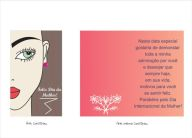
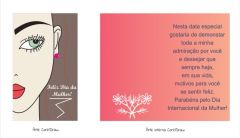
Cartões comemorativos cadastrados

diff --git a/Sheila/css/estilo.css b/Sheila/css/estilo.css
@@ -72,8 +72,8 @@ header nav#menu ul li a#contato { margin-left: 7px; font-size: 25px; margin-top:
 header nav#menu ul li a#anuncie { margin-left: 7px; font-size: 25px; margin-top: 50px;}
 
 section.wrapper { margin-top: 40px; margin-bottom: 20px; }         
-section.wrapper div.texto article { float: left; width: 470px;  text-align: justify; margin-left: 25px;}
-section.wrapper div.texto article h3 { font-size: 20px; font-weight: bold;  }
+section.wrapper div.texto article { float: left; width: 470px;  text-align: justify; margin-left: 25px;  font-family: 'Nunito', sans-serif; font-weight: 300; }
+section.wrapper div.texto article h3 { font-size: 20px; font-weight: bold;  font-family: 'Nunito', sans-serif; font-weight: 700; }
 
 /*      Formulário Contato*/
 
@@ -100,7 +100,8 @@ ul.thumbs {
     padding: 0;
     margin: 0;
     overflow: hidden;
-    font-family: 'Josefin Sans', sans-serif;
+    //font-family: 'Josefin Sans', sans-serif;
+    font-family: 'Nunito', sans-serif;
 }
 
 ul.thumbs li {
@@ -110,7 +111,8 @@ ul.thumbs li {
     padding: 0;
     float: left;
     position: relative;
-    font-family: 'Josefin Sans', sans-serif;
+    //font-family: 'Josefin Sans', sans-serif;
+    font-family: 'Nunito', sans-serif;
 }
 
 ul.thumbs li a.thumbnail {
@@ -126,7 +128,8 @@ ul.thumbs li a.thumbnail {
     z-index: 9;
     width: 100%;
     height: 100%;
-    font-family: 'Josefin Sans', sans-serif;
+    //font-family: 'Josefin Sans', sans-serif;
+    font-family: 'Nunito', sans-serif;
 }
 
 ul.thumbs li a.thumbnail h4 {
@@ -139,7 +142,8 @@ ul.thumbs li a.thumbnail h4 {
     color: #6b6b6b;
     font-size: 14px;
     margin: 0;
-    font-family: 'Josefin Sans', sans-serif;
+    //font-family: 'Josefin Sans', sans-serif;
+    font-family: 'Nunito', sans-serif;
 }
 
 ul.thumbs li a.thumbnail .description {
@@ -162,7 +166,8 @@ ul.thumbs li a.thumbnail .description {
     line-height: 10px;
     box-sizing: inherit;
     text-align: center;
-    font-family: 'Josefin Sans', sans-serif;
+    //font-family: 'Josefin Sans', sans-serif;
+    font-family: 'Nunito', sans-serif;
 }
 
 ul.thumbs li a.thumbnail .active-arrow {
@@ -177,7 +182,8 @@ ul.thumbs li a.thumbnail .active-arrow {
     left: 0;
     right: 0;
     margin: 0 auto;
-    font-family: 'Josefin Sans', sans-serif;
+    //font-family: 'Josefin Sans', sans-serif;
+    font-family: 'Nunito', sans-serif;
 }
 
 @media (max-width: 970px)  {
@@ -192,14 +198,16 @@ ul.thumbs li a.thumbnail .active-arrow {
 @media (max-width: 1200px) and (min-width: 970px) {
     ul.thumbs li {
         width: 33.3333% !important;
-        font-family: 'Josefin Sans', sans-serif;
+        //font-family: 'Josefin Sans', sans-serif;
+        font-family: 'Nunito', sans-serif;
     }
 }
 
 ul.thumbs li a.thumbnail:hover .description {
     height: 50px;
     opacity: 1;
-    font-family: 'Josefin Sans', sans-serif;
+    //font-family: 'Josefin Sans', sans-serif;
+    font-family: 'Nunito', sans-serif;
 }
 
 ul.thumbs li.content {
@@ -212,12 +220,14 @@ ul.thumbs li.content {
     height: 100%;
     position: relative;
     padding: 45px 0 45px;
-    font-family: 'Josefin Sans', sans-serif;
+    //font-family: 'Josefin Sans', sans-serif;
+    font-family: 'Nunito', sans-serif;
 }
 
 ul.thumbs li.content h3 {
     display: inline-block;
-    font-family: 'Josefin Sans', sans-serif;
+    //font-family: 'Josefin Sans', sans-serif;
+    font-family: 'Nunito', sans-serif;
 }
 
 ul.thumbs li.content .close {
@@ -243,11 +253,13 @@ ul.thumbs li.content .media {
     width: 50%;
     min-height: 200px;
     //font-family: 'Josefin Sans', sans-serif;
+    font-family: 'Nunito', sans-serif;
 }
 
 ul.thumbs li.content .media img {
     max-width: 100%;    
     //font-family: 'Josefin Sans', sans-serif;    
+    font-family: 'Nunito', sans-serif;
 }
 
 @media (max-width: 1080px) {
@@ -303,8 +315,8 @@ ul.thumbs li.content .galeria {
 
 .galeria a.fancybox-effects-a img, .galeria a.fancybox-effects-b img, .galeria a.fancybox-effects-c img, .galeria a.fancybox-effects-d img, .galeria a.fancybox-buttons img, .galeria a.fancybox-thumbs img {    
     border: 1px solid #000;      
-    margin-right: 5px;
-    margin-bottom: 8px;
+    //margin-right: 5px;
+    margin-bottom: 2px;
     
 }
 

diff --git a/Sheila/js/config.js b/Sheila/js/config.js
@@ -15,8 +15,9 @@
                 
 		//Cufon('header nav#menu ul li a', { fontFamily: 'Daisy Script'});   
                 Cufon('footer address, footer p', { fontFamily: 'Open Sans'});   
-                Cufon('div.texto', { fontFamily: 'Josefin Sans'});   
-                Cufon('div.texto h3', { fontFamily: 'Josefin Sans Semi Bold'});   
+                //Cufon('div.texto', { fontFamily: 'Josefin Sans'});   
+                //Cufon('div.texto h3', { fontFamily: 'Josefin Sans Semi Bold'});   
+                 
                 Cufon('header nav#menu ul li a', { hover: {color: '#E9556A'},fontFamily: 'Indie Flower'}); 
             
             

diff --git a/Sheila/portfolio.php b/Sheila/portfolio.php
@@ -83,66 +83,66 @@ and open the template in the editor.
                         <!--<p>Class aptent taciti sociosqu ad litora torquent per conubia nostra, per inceptos himenaeos. Suspendisse potenti. Integer a posuere tortor. Praesent malesuada mauris massa, non blandit neque tempus nec. Quisque fermentum nunc non hendrerit tempus.</p>-->
                         <p class="galeria">
                             <a class="fancybox-effects-c" href="imagens/portfolio/original/cartoes-comemorativos/amostra.jpg" data-fancybox-group="gallery" title="Amostra"><img src="imagens/portfolio/thumbnail/cartoes-comemorativos/amostra.jpg" alt="Amostra" /></a>
-                            <a class="fancybox-effects-c" href="imagens/portfolio/original/cartoes-comemorativos/" data-fancybox-group="gallery" title=""><img src="imagens/portfolio/thumbnail/cartoes-comemorativos/" alt="" /></a>
-                            <a class="fancybox-effects-c" href="imagens/portfolio/original/cartoes-comemorativos/" data-fancybox-group="gallery" title=""><img src="imagens/portfolio/thumbnail/cartoes-comemorativos/" alt="" /></a>
-                            <a class="fancybox-effects-c" href="imagens/portfolio/original/cartoes-comemorativos/" data-fancybox-group="gallery" title=""><img src="imagens/portfolio/thumbnail/cartoes-comemorativos/" alt="" /></a>
-                            <a class="fancybox-effects-c" href="imagens/portfolio/original/cartoes-comemorativos/" data-fancybox-group="gallery" title=""><img src="imagens/portfolio/thumbnail/cartoes-comemorativos/" alt="" /></a>
-                            <a class="fancybox-effects-c" href="imagens/portfolio/original/cartoes-comemorativos/" data-fancybox-group="gallery" title=""><img src="imagens/portfolio/thumbnail/cartoes-comemorativos/" alt="" /></a>
-                            <a class="fancybox-effects-c" href="imagens/portfolio/original/cartoes-comemorativos/" data-fancybox-group="gallery" title=""><img src="imagens/portfolio/thumbnail/cartoes-comemorativos/" alt="" /></a>
-                            <a class="fancybox-effects-c" href="imagens/portfolio/original/cartoes-comemorativos/" data-fancybox-group="gallery" title=""><img src="imagens/portfolio/thumbnail/cartoes-comemorativos/" alt="" /></a>
-                            <a class="fancybox-effects-c" href="imagens/portfolio/original/cartoes-comemorativos/" data-fancybox-group="gallery" title=""><img src="imagens/portfolio/thumbnail/cartoes-comemorativos/" alt="" /></a>
-                            <a class="fancybox-effects-c" href="imagens/portfolio/original/cartoes-comemorativos/" data-fancybox-group="gallery" title=""><img src="imagens/portfolio/thumbnail/cartoes-comemorativos/" alt="" /></a>
-                            <a class="fancybox-effects-c" href="imagens/portfolio/original/cartoes-comemorativos/" data-fancybox-group="gallery" title=""><img src="imagens/portfolio/thumbnail/cartoes-comemorativos/" alt="" /></a>
-                            <a class="fancybox-effects-c" href="imagens/portfolio/original/cartoes-comemorativos/" data-fancybox-group="gallery" title=""><img src="imagens/portfolio/thumbnail/cartoes-comemorativos/" alt="" /></a>
-                            <a class="fancybox-effects-c" href="imagens/portfolio/original/cartoes-comemorativos/" data-fancybox-group="gallery" title=""><img src="imagens/portfolio/thumbnail/cartoes-comemorativos/" alt="" /></a>
-                            <a class="fancybox-effects-c" href="imagens/portfolio/original/cartoes-comemorativos/" data-fancybox-group="gallery" title=""><img src="imagens/portfolio/thumbnail/cartoes-comemorativos/" alt="" /></a>
-                            <a class="fancybox-effects-c" href="imagens/portfolio/original/cartoes-comemorativos/" data-fancybox-group="gallery" title=""><img src="imagens/portfolio/thumbnail/cartoes-comemorativos/" alt="" /></a>
-                            <a class="fancybox-effects-c" href="imagens/portfolio/original/cartoes-comemorativos/" data-fancybox-group="gallery" title=""><img src="imagens/portfolio/thumbnail/cartoes-comemorativos/" alt="" /></a>
-                            <a class="fancybox-effects-c" href="imagens/portfolio/original/cartoes-comemorativos/" data-fancybox-group="gallery" title=""><img src="imagens/portfolio/thumbnail/cartoes-comemorativos/" alt="" /></a>
-                            <a class="fancybox-effects-c" href="imagens/portfolio/original/cartoes-comemorativos/" data-fancybox-group="gallery" title=""><img src="imagens/portfolio/thumbnail/cartoes-comemorativos/" alt="" /></a>
-                            <a class="fancybox-effects-c" href="imagens/portfolio/original/cartoes-comemorativos/" data-fancybox-group="gallery" title=""><img src="imagens/portfolio/thumbnail/cartoes-comemorativos/" alt="" /></a>
-                            <a class="fancybox-effects-c" href="imagens/portfolio/original/cartoes-comemorativos/" data-fancybox-group="gallery" title=""><img src="imagens/portfolio/thumbnail/cartoes-comemorativos/" alt="" /></a>
-                            <a class="fancybox-effects-c" href="imagens/portfolio/original/cartoes-comemorativos/" data-fancybox-group="gallery" title=""><img src="imagens/portfolio/thumbnail/cartoes-comemorativos/" alt="" /></a>
-                            <a class="fancybox-effects-c" href="imagens/portfolio/original/cartoes-comemorativos/" data-fancybox-group="gallery" title=""><img src="imagens/portfolio/thumbnail/cartoes-comemorativos/" alt="" /></a>
-                            <a class="fancybox-effects-c" href="imagens/portfolio/original/cartoes-comemorativos/" data-fancybox-group="gallery" title=""><img src="imagens/portfolio/thumbnail/cartoes-comemorativos/" alt="" /></a>
-                            <a class="fancybox-effects-c" href="imagens/portfolio/original/cartoes-comemorativos/" data-fancybox-group="gallery" title=""><img src="imagens/portfolio/thumbnail/cartoes-comemorativos/" alt="" /></a>
-                            <a class="fancybox-effects-c" href="imagens/portfolio/original/cartoes-comemorativos/" data-fancybox-group="gallery" title=""><img src="imagens/portfolio/thumbnail/cartoes-comemorativos/" alt="" /></a>
-                            <a class="fancybox-effects-c" href="imagens/portfolio/original/cartoes-comemorativos/" data-fancybox-group="gallery" title=""><img src="imagens/portfolio/thumbnail/cartoes-comemorativos/" alt="" /></a>
-                            <a class="fancybox-effects-c" href="imagens/portfolio/original/cartoes-comemorativos/" data-fancybox-group="gallery" title=""><img src="imagens/portfolio/thumbnail/cartoes-comemorativos/" alt="" /></a>
-                            <a class="fancybox-effects-c" href="imagens/portfolio/original/cartoes-comemorativos/" data-fancybox-group="gallery" title=""><img src="imagens/portfolio/thumbnail/cartoes-comemorativos/" alt="" /></a>
-                            <a class="fancybox-effects-c" href="imagens/portfolio/original/cartoes-comemorativos/" data-fancybox-group="gallery" title=""><img src="imagens/portfolio/thumbnail/cartoes-comemorativos/" alt="" /></a>
-                            <a class="fancybox-effects-c" href="imagens/portfolio/original/cartoes-comemorativos/" data-fancybox-group="gallery" title=""><img src="imagens/portfolio/thumbnail/cartoes-comemorativos/" alt="" /></a>
-                            <a class="fancybox-effects-c" href="imagens/portfolio/original/cartoes-comemorativos/" data-fancybox-group="gallery" title=""><img src="imagens/portfolio/thumbnail/cartoes-comemorativos/" alt="" /></a>
-                            <a class="fancybox-effects-c" href="imagens/portfolio/original/cartoes-comemorativos/" data-fancybox-group="gallery" title=""><img src="imagens/portfolio/thumbnail/cartoes-comemorativos/" alt="" /></a>
-                            <a class="fancybox-effects-c" href="imagens/portfolio/original/cartoes-comemorativos/" data-fancybox-group="gallery" title=""><img src="imagens/portfolio/thumbnail/cartoes-comemorativos/" alt="" /></a>
-                            <a class="fancybox-effects-c" href="imagens/portfolio/original/cartoes-comemorativos/" data-fancybox-group="gallery" title=""><img src="imagens/portfolio/thumbnail/cartoes-comemorativos/" alt="" /></a>
-                            <a class="fancybox-effects-c" href="imagens/portfolio/original/cartoes-comemorativos/" data-fancybox-group="gallery" title=""><img src="imagens/portfolio/thumbnail/cartoes-comemorativos/" alt="" /></a>
-                            <a class="fancybox-effects-c" href="imagens/portfolio/original/cartoes-comemorativos/" data-fancybox-group="gallery" title=""><img src="imagens/portfolio/thumbnail/cartoes-comemorativos/" alt="" /></a>
-                            <a class="fancybox-effects-c" href="imagens/portfolio/original/cartoes-comemorativos/" data-fancybox-group="gallery" title=""><img src="imagens/portfolio/thumbnail/cartoes-comemorativos/" alt="" /></a>
-                            <a class="fancybox-effects-c" href="imagens/portfolio/original/cartoes-comemorativos/" data-fancybox-group="gallery" title=""><img src="imagens/portfolio/thumbnail/cartoes-comemorativos/" alt="" /></a>
-                            <a class="fancybox-effects-c" href="imagens/portfolio/original/cartoes-comemorativos/" data-fancybox-group="gallery" title=""><img src="imagens/portfolio/thumbnail/cartoes-comemorativos/" alt="" /></a>
-                            <a class="fancybox-effects-c" href="imagens/portfolio/original/cartoes-comemorativos/" data-fancybox-group="gallery" title=""><img src="imagens/portfolio/thumbnail/cartoes-comemorativos/" alt="" /></a>
-                            <a class="fancybox-effects-c" href="imagens/portfolio/original/cartoes-comemorativos/" data-fancybox-group="gallery" title=""><img src="imagens/portfolio/thumbnail/cartoes-comemorativos/" alt="" /></a>
-                            <a class="fancybox-effects-c" href="imagens/portfolio/original/cartoes-comemorativos/" data-fancybox-group="gallery" title=""><img src="imagens/portfolio/thumbnail/cartoes-comemorativos/" alt="" /></a>
-                            <a class="fancybox-effects-c" href="imagens/portfolio/original/cartoes-comemorativos/" data-fancybox-group="gallery" title=""><img src="imagens/portfolio/thumbnail/cartoes-comemorativos/" alt="" /></a>
-                            <a class="fancybox-effects-c" href="imagens/portfolio/original/cartoes-comemorativos/" data-fancybox-group="gallery" title=""><img src="imagens/portfolio/thumbnail/cartoes-comemorativos/" alt="" /></a>
-                            <a class="fancybox-effects-c" href="imagens/portfolio/original/cartoes-comemorativos/" data-fancybox-group="gallery" title=""><img src="imagens/portfolio/thumbnail/cartoes-comemorativos/" alt="" /></a>
-                            <a class="fancybox-effects-c" href="imagens/portfolio/original/cartoes-comemorativos/" data-fancybox-group="gallery" title=""><img src="imagens/portfolio/thumbnail/cartoes-comemorativos/" alt="" /></a>
-                            <a class="fancybox-effects-c" href="imagens/portfolio/original/cartoes-comemorativos/" data-fancybox-group="gallery" title=""><img src="imagens/portfolio/thumbnail/cartoes-comemorativos/" alt="" /></a>
-                            <a class="fancybox-effects-c" href="imagens/portfolio/original/cartoes-comemorativos/" data-fancybox-group="gallery" title=""><img src="imagens/portfolio/thumbnail/cartoes-comemorativos/" alt="" /></a>
-                            <a class="fancybox-effects-c" href="imagens/portfolio/original/cartoes-comemorativos/" data-fancybox-group="gallery" title=""><img src="imagens/portfolio/thumbnail/cartoes-comemorativos/" alt="" /></a>
-                            <a class="fancybox-effects-c" href="imagens/portfolio/original/cartoes-comemorativos/" data-fancybox-group="gallery" title=""><img src="imagens/portfolio/thumbnail/cartoes-comemorativos/" alt="" /></a>
-                            <a class="fancybox-effects-c" href="imagens/portfolio/original/cartoes-comemorativos/" data-fancybox-group="gallery" title=""><img src="imagens/portfolio/thumbnail/cartoes-comemorativos/" alt="" /></a>
-                            <a class="fancybox-effects-c" href="imagens/portfolio/original/cartoes-comemorativos/" data-fancybox-group="gallery" title=""><img src="imagens/portfolio/thumbnail/cartoes-comemorativos/" alt="" /></a>
-                            <a class="fancybox-effects-c" href="imagens/portfolio/original/cartoes-comemorativos/" data-fancybox-group="gallery" title=""><img src="imagens/portfolio/thumbnail/cartoes-comemorativos/" alt="" /></a>
-                            <a class="fancybox-effects-c" href="imagens/portfolio/original/cartoes-comemorativos/" data-fancybox-group="gallery" title=""><img src="imagens/portfolio/thumbnail/cartoes-comemorativos/" alt="" /></a>
-                            <a class="fancybox-effects-c" href="imagens/portfolio/original/cartoes-comemorativos/" data-fancybox-group="gallery" title=""><img src="imagens/portfolio/thumbnail/cartoes-comemorativos/" alt="" /></a>
-                            <a class="fancybox-effects-c" href="imagens/portfolio/original/cartoes-comemorativos/" data-fancybox-group="gallery" title=""><img src="imagens/portfolio/thumbnail/cartoes-comemorativos/" alt="" /></a>
-                            <a class="fancybox-effects-c" href="imagens/portfolio/original/cartoes-comemorativos/" data-fancybox-group="gallery" title=""><img src="imagens/portfolio/thumbnail/cartoes-comemorativos/" alt="" /></a>
-                            <a class="fancybox-effects-c" href="imagens/portfolio/original/cartoes-comemorativos/" data-fancybox-group="gallery" title=""><img src="imagens/portfolio/thumbnail/cartoes-comemorativos/" alt="" /></a>
-                            <a class="fancybox-effects-c" href="imagens/portfolio/original/cartoes-comemorativos/" data-fancybox-group="gallery" title=""><img src="imagens/portfolio/thumbnail/cartoes-comemorativos/" alt="" /></a>
-                            <a class="fancybox-effects-c" href="imagens/portfolio/original/cartoes-comemorativos/" data-fancybox-group="gallery" title=""><img src="imagens/portfolio/thumbnail/cartoes-comemorativos/" alt="" /></a>
-                            <a class="fancybox-effects-c" href="imagens/portfolio/original/cartoes-comemorativos/" data-fancybox-group="gallery" title=""><img src="imagens/portfolio/thumbnail/cartoes-comemorativos/" alt="" /></a>
+                            <a class="fancybox-effects-c" href="imagens/portfolio/original/cartoes-comemorativos/56-amor.jpg" data-fancybox-group="gallery" title="Hotstamp com glíter"><img src="imagens/portfolio/thumbnail/cartoes-comemorativos/56-amor-hotstamp-com-gliter.jpg" alt="Hotstamp com glíter" /></a>
+                            <a class="fancybox-effects-c" href="imagens/portfolio/original/cartoes-comemorativos/53-amor.jpg" data-fancybox-group="gallery" title="Hotstamp com glíter"><img src="imagens/portfolio/thumbnail/cartoes-comemorativos/53-amor-hotstamp-com-gliter.jpg" alt="Hotstamp com glíter" /></a>
+                            <a class="fancybox-effects-c" href="imagens/portfolio/original/cartoes-comemorativos/50-amor.jpg" data-fancybox-group="gallery" title="Hotstamp com glíter"><img src="imagens/portfolio/thumbnail/cartoes-comemorativos/50-amor-hotstamp-com-gliter.jpg" alt="Hotstamp com glíter" /></a>
+                            <a class="fancybox-effects-c" href="imagens/portfolio/original/cartoes-comemorativos/133-amor.jpg" data-fancybox-group="gallery" title="Hotstamp com glíter"><img src="imagens/portfolio/thumbnail/cartoes-comemorativos/133-amor-hotstamp-com-gliter.jpg" alt="Hotstamp com glíter" /></a>
+                            <a class="fancybox-effects-c" href="imagens/portfolio/original/cartoes-comemorativos/19-amizade.jpg" data-fancybox-group="gallery" title="Hotstamp com glíter"><img src="imagens/portfolio/thumbnail/cartoes-comemorativos/19-amizade-hotstamp-com-gliter.jpg" alt="Hotstamp com glíter" /></a>
+                            <a class="fancybox-effects-c" href="imagens/portfolio/original/cartoes-comemorativos/100-amizade.jpg" data-fancybox-group="gallery" title="Hotstamp com glíter"><img src="imagens/portfolio/thumbnail/cartoes-comemorativos/100-amizade-hotstamp-com-gliter.jpg" alt="Hotstamp com glíter" /></a>
+                            <a class="fancybox-effects-c" href="imagens/portfolio/original/cartoes-comemorativos/1-aniversario.jpg" data-fancybox-group="gallery" title="Hotstamp com glíter"><img src="imagens/portfolio/thumbnail/cartoes-comemorativos/1-aniversario-hotstamp-com-gliter.jpg" alt="Hotstamp com glíter" /></a>
+                            <a class="fancybox-effects-c" href="imagens/portfolio/original/cartoes-comemorativos/2-aniversario.jpg" data-fancybox-group="gallery" title="Hotstamp com glíter"><img src="imagens/portfolio/thumbnail/cartoes-comemorativos/2-aniversario-hotstamp-com-gliter.jpg" alt="Hotstamp com glíter" /></a>
+                            <a class="fancybox-effects-c" href="imagens/portfolio/original/cartoes-comemorativos/9-aniversario.jpg" data-fancybox-group="gallery" title="Hotstamp com glíter"><img src="imagens/portfolio/thumbnail/cartoes-comemorativos/9-aniversario-hotstamp-com-gliter.jpg" alt="Hotstamp com glíter" /></a>
+                            <a class="fancybox-effects-c" href="imagens/portfolio/original/cartoes-comemorativos/4-aniversario.jpg" data-fancybox-group="gallery" title="Hotstamp com glíter"><img src="imagens/portfolio/thumbnail/cartoes-comemorativos/4-aniversario-hotstamp-com-gliter.jpg" alt="Hotstamp com glíter" /></a>
+                            <a class="fancybox-effects-c" href="imagens/portfolio/original/cartoes-comemorativos/131-aniversario.jpg" data-fancybox-group="gallery" title="Hotstamp com glíter"><img src="imagens/portfolio/thumbnail/cartoes-comemorativos/131-aniversario-hotstamp-com-gliter.jpg" alt="Hotstamp com glíter" /></a>
+                            <a class="fancybox-effects-c" href="imagens/portfolio/original/cartoes-comemorativos/134-aniversario.jpg" data-fancybox-group="gallery" title="Hotstamp com glíter"><img src="imagens/portfolio/thumbnail/cartoes-comemorativos/134-aniversario-hotstamp-com-gliter.jpg" alt="Hotstamp com glíter" /></a>
+                            <a class="fancybox-effects-c" href="imagens/portfolio/original/cartoes-comemorativos/23-aniversario-de-casamento.jpg" data-fancybox-group="gallery" title="Hotstamp com glíter"><img src="imagens/portfolio/thumbnail/cartoes-comemorativos/23-aniversario-de-casamento-hotstamp-com-gliter.jpg" alt="Hotstamp com glíter" /></a>
+                            <a class="fancybox-effects-c" href="imagens/portfolio/original/cartoes-comemorativos/101-aniversario-de-casamento.jpg" data-fancybox-group="gallery" title="Hotstamp com glíter"><img src="imagens/portfolio/thumbnail/cartoes-comemorativos/101-aniversario-de-casamento-hotstamp-com-gliter.jpg" alt="Hotstamp com glíter" /></a>
+                            <a class="fancybox-effects-c" href="imagens/portfolio/original/cartoes-comemorativos/81-bebe.jpg" data-fancybox-group="gallery" title="Hotstamp com glíter"><img src="imagens/portfolio/thumbnail/cartoes-comemorativos/81-bebe-hotstamp-com-gliter.jpg" alt="Hotstamp com glíter" /></a>
+                            <a class="fancybox-effects-c" href="imagens/portfolio/original/cartoes-comemorativos/83-bebe.jpg" data-fancybox-group="gallery" title="Hotstamp com glíter"><img src="imagens/portfolio/thumbnail/cartoes-comemorativos/83-bebe-hotstamp-com-gliter.jpg" alt="Hotstamp com glíter" /></a>
+                            <a class="fancybox-effects-c" href="imagens/portfolio/original/cartoes-comemorativos/82-bebe.jpg" data-fancybox-group="gallery" title="Hotstamp com glíter"><img src="imagens/portfolio/thumbnail/cartoes-comemorativos/82-bebe-hotstamp-com-gliter.jpg" alt="Hotstamp com glíter" /></a>
+                            <a class="fancybox-effects-c" href="imagens/portfolio/original/cartoes-comemorativos/24-bebe.jpg" data-fancybox-group="gallery" title="Hotstamp com glíter"><img src="imagens/portfolio/thumbnail/cartoes-comemorativos/24-bebe-hotstamp-com-gliter.jpg" alt="Hotstamp com glíter" /></a>
+                            <a class="fancybox-effects-c" href="imagens/portfolio/original/cartoes-comemorativos/25-bebe.jpg" data-fancybox-group="gallery" title="Hotstamp com glíter"><img src="imagens/portfolio/thumbnail/cartoes-comemorativos/25-bebe-hotstamp-com-gliter.jpg" alt="Hotstamp com glíter" /></a>
+                            <a class="fancybox-effects-c" href="imagens/portfolio/original/cartoes-comemorativos/26-bebe.jpg" data-fancybox-group="gallery" title="Hotstamp com glíter"><img src="imagens/portfolio/thumbnail/cartoes-comemorativos/26-bebe-hotstamp-com-gliter.jpg" alt="Hotstamp com glíter" /></a>
+                            <a class="fancybox-effects-c" href="imagens/portfolio/original/cartoes-comemorativos/27-bodas.jpg" data-fancybox-group="gallery" title="Hotstamp com glíter"><img src="imagens/portfolio/thumbnail/cartoes-comemorativos/27-bodas-hotstamp-com-gliter.jpg" alt="Hotstamp com glíter" /></a>
+                            <a class="fancybox-effects-c" href="imagens/portfolio/original/cartoes-comemorativos/106-bodas.jpg" data-fancybox-group="gallery" title="Hotstamp com pecinha"><img src="imagens/portfolio/thumbnail/cartoes-comemorativos/106-bodas-hotstamp-com-pecinha.jpg" alt="Hotstamp com pecinha" /></a>
+                            <a class="fancybox-effects-c" href="imagens/portfolio/original/cartoes-comemorativos/29-casamento.jpg" data-fancybox-group="gallery" title="Hotstamp com glíter"><img src="imagens/portfolio/thumbnail/cartoes-comemorativos/29-casamento-hotstamp-com-gliter.jpg" alt="Hotstamp com glíter" /></a>
+                            <a class="fancybox-effects-c" href="imagens/portfolio/original/cartoes-comemorativos/89-casamento.jpg" data-fancybox-group="gallery" title="Hotstamp com glíter"><img src="imagens/portfolio/thumbnail/cartoes-comemorativos/89-casamento-hotstamp-com-gliter.jpg" alt="Hotstamp com glíter" /></a>
+                            <a class="fancybox-effects-c" href="imagens/portfolio/original/cartoes-comemorativos/90-casamento.jpg" data-fancybox-group="gallery" title="Hotstamp com glíter"><img src="imagens/portfolio/thumbnail/cartoes-comemorativos/90-casamento-hotstamp-com-gliter.jpg" alt="Hotstamp com glíter" /></a>
+                            <a class="fancybox-effects-c" href="imagens/portfolio/original/cartoes-comemorativos/117-casamento.jpg" data-fancybox-group="gallery" title="Hotstamp com pecinha"><img src="imagens/portfolio/thumbnail/cartoes-comemorativos/117-casamento-hotstamp-com-pecinha.jpg" alt="Hotstamp com pecinha" /></a>
+                            <a class="fancybox-effects-c" href="imagens/portfolio/original/cartoes-comemorativos/109-casamento.jpg" data-fancybox-group="gallery" title="Hotstamp com pecinha"><img src="imagens/portfolio/thumbnail/cartoes-comemorativos/109-casamento-hotstamp-com-pecinha.jpg" alt="Hotstamp com pecinha" /></a>
+                            <a class="fancybox-effects-c" href="imagens/portfolio/original/cartoes-comemorativos/127-namorados.jpg" data-fancybox-group="gallery" title="Hotstamp com glíter"><img src="imagens/portfolio/thumbnail/cartoes-comemorativos/127-namorados-hotstamp-com-gliter.jpg" alt="Hotstamp com glíter" /></a>
+                            <a class="fancybox-effects-c" href="imagens/portfolio/original/cartoes-comemorativos/107-casamento.jpg" data-fancybox-group="gallery" title="Hotstamp com pecinha"><img src="imagens/portfolio/thumbnail/cartoes-comemorativos/107-casamento-hotstamp-com-pecinha.jpg" alt="Hotstamp com pecinha" /></a>
+                            <a class="fancybox-effects-c" href="imagens/portfolio/original/cartoes-comemorativos/97-dia-internacional-da-mulher.jpg" data-fancybox-group="gallery" title="Hotstamp com glíter"><img src="imagens/portfolio/thumbnail/cartoes-comemorativos/97-dia-internacional-da-mulher-hotstamp-com-gliter.jpg" alt="Hotstamp com glíter" /></a>
+                            <a class="fancybox-effects-c" href="imagens/portfolio/original/cartoes-comemorativos/122-dia-das-maes.jpg" data-fancybox-group="gallery" title="Hotstamp com glíter"><img src="imagens/portfolio/thumbnail/cartoes-comemorativos/122-dia-das-maes-hotstamp-com-gliter.jpg" alt="Hotstamp com glíter" /></a>
+                            <a class="fancybox-effects-c" href="imagens/portfolio/original/cartoes-comemorativos/125-dia-das-maes.jpg" data-fancybox-group="gallery" title="Hotstamp com glíter"><img src="imagens/portfolio/thumbnail/cartoes-comemorativos/125-dia-das-maes-hotstamp-com-gliter.jpg" alt="Hotstamp com glíter" /></a>
+                            <a class="fancybox-effects-c" href="imagens/portfolio/original/cartoes-comemorativos/124-dia-das-maes.jpg" data-fancybox-group="gallery" title="Hotstamp com glíter"><img src="imagens/portfolio/thumbnail/cartoes-comemorativos/124-dia-das-maes-hotstamp-com-gliter.jpg" alt="Hotstamp com glíter" /></a>
+                            <a class="fancybox-effects-c" href="imagens/portfolio/original/cartoes-comemorativos/123-dia-das-maes.jpg" data-fancybox-group="gallery" title="Hotstamp com glíter"><img src="imagens/portfolio/thumbnail/cartoes-comemorativos/123-dia-das-maes-hotstamp-com-gliter.jpg" alt="Hotstamp com glíter" /></a>
+                            <a class="fancybox-effects-c" href="imagens/portfolio/original/cartoes-comemorativos/128-namorados.jpg" data-fancybox-group="gallery" title="Hotstamp com glíter"><img src="imagens/portfolio/thumbnail/cartoes-comemorativos/128-namorados-hotstamp-com-gliter.jpg" alt="Hotstamp com glíter" /></a>
+                            <a class="fancybox-effects-c" href="imagens/portfolio/original/cartoes-comemorativos/129-namorados.jpg" data-fancybox-group="gallery" title="Hotstamp com glíter"><img src="imagens/portfolio/thumbnail/cartoes-comemorativos/129-namorados-hotstamp-com-gliter.jpg" alt="Hotstamp com glíter" /></a>
+                            <a class="fancybox-effects-c" href="imagens/portfolio/original/cartoes-comemorativos/65-natal.jpg" data-fancybox-group="gallery" title="Hotstamp com glíter"><img src="imagens/portfolio/thumbnail/cartoes-comemorativos/65-natal-hotstamp-com-gliter.jpg" alt="Hotstamp com glíter" /></a>
+                            <a class="fancybox-effects-c" href="imagens/portfolio/original/cartoes-comemorativos/66-natal.jpg" data-fancybox-group="gallery" title="Hotstamp com glíter"><img src="imagens/portfolio/thumbnail/cartoes-comemorativos/66-natal-hotstamp-com-gliter.jpg" alt="Hotstamp com glíter" /></a>
+                            <a class="fancybox-effects-c" href="imagens/portfolio/original/cartoes-comemorativos/67-natal.jpg" data-fancybox-group="gallery" title="Hotstamp com glíter"><img src="imagens/portfolio/thumbnail/cartoes-comemorativos/67-natal-hotstamp-com-gliter.jpg" alt="Hotstamp com glíter" /></a>
+                            <a class="fancybox-effects-c" href="imagens/portfolio/original/cartoes-comemorativos/73-natal.jpg" data-fancybox-group="gallery" title="Hotstamp com glíter"><img src="imagens/portfolio/thumbnail/cartoes-comemorativos/73-natal-hotstamp-com-gliter.jpg" alt="Hotstamp com glíter" /></a>
+                            <a class="fancybox-effects-c" href="imagens/portfolio/original/cartoes-comemorativos/74-natal.jpg" data-fancybox-group="gallery" title="Hotstamp com glíter"><img src="imagens/portfolio/thumbnail/cartoes-comemorativos/74-natal-hotstamp-com-gliter.jpg" alt="Hotstamp com glíter" /></a>
+                            <a class="fancybox-effects-c" href="imagens/portfolio/original/cartoes-comemorativos/80-natal.jpg" data-fancybox-group="gallery" title="Hotstamp com glíter"><img src="imagens/portfolio/thumbnail/cartoes-comemorativos/80-natal-hotstamp-com-gliter.jpg" alt="Hotstamp com glíter" /></a>
+                            <a class="fancybox-effects-c" href="imagens/portfolio/original/cartoes-comemorativos/75-natal.jpg" data-fancybox-group="gallery" title="Hotstamp com glíter"><img src="imagens/portfolio/thumbnail/cartoes-comemorativos/75-natal-hotstamp-com-gliter.jpg" alt="Hotstamp com glíter" /></a>
+                            <a class="fancybox-effects-c" href="imagens/portfolio/original/cartoes-comemorativos/76-natal.jpg" data-fancybox-group="gallery" title="Hotstamp com glíter"><img src="imagens/portfolio/thumbnail/cartoes-comemorativos/76-natal-hotstamp-com-gliter.jpg" alt="Hotstamp com glíter" /></a>
+                            <a class="fancybox-effects-c" href="imagens/portfolio/original/cartoes-comemorativos/77-natal.jpg" data-fancybox-group="gallery" title="Hotstamp com glíter"><img src="imagens/portfolio/thumbnail/cartoes-comemorativos/77-natal-hotstamp-com-gliter.jpg" alt="Hotstamp com glíter" /></a>
+                            <a class="fancybox-effects-c" href="imagens/portfolio/original/cartoes-comemorativos/40-neutro.jpg" data-fancybox-group="gallery" title="Hotstamp com glíter"><img src="imagens/portfolio/thumbnail/cartoes-comemorativos/40-neutro-hotstamp-com-gliter.jpg" alt="Hotstamp com glíter" /></a>
+                            <a class="fancybox-effects-c" href="imagens/portfolio/original/cartoes-comemorativos/84-neutro.jpg" data-fancybox-group="gallery" title="Hotstamp com glíter"><img src="imagens/portfolio/thumbnail/cartoes-comemorativos/84-neutro-hotstamp-com-gliter.jpg" alt="Hotstamp com glíter" /></a>
+                            <a class="fancybox-effects-c" href="imagens/portfolio/original/cartoes-comemorativos/62-neutro.jpg" data-fancybox-group="gallery" title="Hotstamp com glíter"><img src="imagens/portfolio/thumbnail/cartoes-comemorativos/62-neutro-hotstamp-com-gliter.jpg" alt="Hotstamp com glíter" /></a>
+                            <a class="fancybox-effects-c" href="imagens/portfolio/original/cartoes-comemorativos/137-neutro.jpg" data-fancybox-group="gallery" title="Hotstamp com glíter"><img src="imagens/portfolio/thumbnail/cartoes-comemorativos/137-neutro-hotstamp-com-gliter.jpg" alt="Hotstamp com glíter" /></a>
+                            <a class="fancybox-effects-c" href="imagens/portfolio/original/cartoes-comemorativos/136-neutro.jpg" data-fancybox-group="gallery" title="Hotstamp com glíter"><img src="imagens/portfolio/thumbnail/cartoes-comemorativos/136-neutro-hotstamp-com-gliter.jpg" alt="Hotstamp com glíter" /></a>
+                            <a class="fancybox-effects-c" href="imagens/portfolio/original/cartoes-comemorativos/112-neutro.jpg" data-fancybox-group="gallery" title="Hotstamp com pecinha"><img src="imagens/portfolio/thumbnail/cartoes-comemorativos/112-neutro-hotstamp-com-pecinha.jpg" alt="Hotstamp com pecinha" /></a>
+                            <a class="fancybox-effects-c" href="imagens/portfolio/original/cartoes-comemorativos/110-neutro.jpg" data-fancybox-group="gallery" title="Hotstamp com pecinha"><img src="imagens/portfolio/thumbnail/cartoes-comemorativos/110-neutro-hotstamp-com-pecinha.jpg" alt="Hotstamp com pecinha" /></a>
+                            <a class="fancybox-effects-c" href="imagens/portfolio/original/cartoes-comemorativos/118-neutro.jpg" data-fancybox-group="gallery" title="Hotstamp com pecinha"><img src="imagens/portfolio/thumbnail/cartoes-comemorativos/118-neutro-hotstamp-com-pecinha.jpg" alt="Hotstamp com pecinha" /></a>
+                            <a class="fancybox-effects-c" href="imagens/portfolio/original/cartoes-comemorativos/46-neutro-pessoas-queridas.jpg" data-fancybox-group="gallery" title="Hotstamp com glíter"><img src="imagens/portfolio/thumbnail/cartoes-comemorativos/46-neutro-pessoas-queridas-hotstamp-com-gliter.jpg" alt="Hotstamp com glíter" /></a>
+                            <a class="fancybox-effects-c" href="imagens/portfolio/original/cartoes-comemorativos/113-neutro-para-data.jpg" data-fancybox-group="gallery" title="Hotstamp com pecinha"><img src="imagens/portfolio/thumbnail/cartoes-comemorativos/113-neutro-para-data-hotstamp-com-pecinha.jpg" alt="Hotstamp com pecinha" /></a>
+                            <a class="fancybox-effects-c" href="imagens/portfolio/original/cartoes-comemorativos/114-pessoas-queridas.jpg" data-fancybox-group="gallery" title="Hotstamp com pecinha"><img src="imagens/portfolio/thumbnail/cartoes-comemorativos/114-pessoas-queridas-hotstamp-com-pecinha.jpg" alt="Hotstamp com pecinha" /></a>
+                            <a class="fancybox-effects-c" href="imagens/portfolio/original/cartoes-comemorativos/119-pessoas-queridas.jpg" data-fancybox-group="gallery" title="Hotstamp com pecinha"><img src="imagens/portfolio/thumbnail/cartoes-comemorativos/119-pessoas-queridas-hotstamp-com-pecinha.jpg" alt="Hotstamp com pecinha" /></a>
+                            <a class="fancybox-effects-c" href="imagens/portfolio/original/cartoes-comemorativos/47-querida-esposa.jpg" data-fancybox-group="gallery" title="Hotstamp com glíter"><img src="imagens/portfolio/thumbnail/cartoes-comemorativos/47-querida-esposa-hotstamp-com-gliter.jpg" alt="Hotstamp com glíter" /></a>
+                            <a class="fancybox-effects-c" href="imagens/portfolio/original/cartoes-comemorativos/115-religioso.jpg" data-fancybox-group="gallery" title="Hotstamp com pecinha"><img src="imagens/portfolio/thumbnail/cartoes-comemorativos/115-religioso-hotstamp-com-pecinha.jpg" alt="Hotstamp com pecinha" /></a>
+                            <a class="fancybox-effects-c" href="imagens/portfolio/original/cartoes-comemorativos/99-15-anos.jpg" data-fancybox-group="gallery" title="Hotstamp com glíter"><img src="imagens/portfolio/thumbnail/cartoes-comemorativos/99-15-anos-hotstamp-com-gliter.jpg" alt="Hotstamp com glíter" /></a>
                         </p>  
                     </div>
                 </div>
